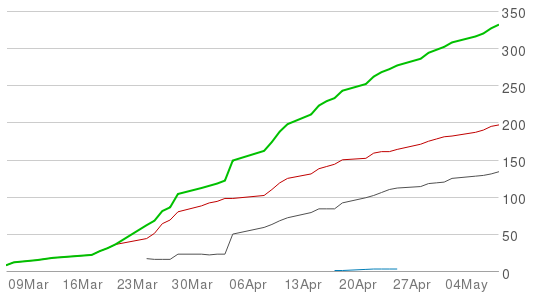
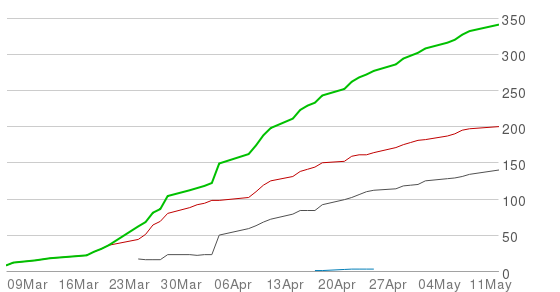
Updates 2014-05-12

diff --git a/index.html b/index.html
@@ -105,8 +105,8 @@
 		</script>
 		
 		<p>The first case of mumps detected in Franklin County was January 7, with the first case at OSU detected February 10.</p>
-		<p>At Ohio State University, the virus has affected 132 students, 26 staff members, three family members, and 37 with strong ties to the university community, with 86.4 percent of affected OSU-affiliated persons living in Columbus. Patients include 120 females and 78 males in the OSU community, from one to 58 years of age. The university-linked cases include residents in Columbus and Athens, Belmont, Cincinnati, Clark, Delaware, Fairfield, Franklin, Hamilton, Licking, Madison, Pickaway and Ross counties.<sup><a href="http://columbus.gov/Templates/Detail.aspx?id=69188">1</a></sup> Cases unrelated to Ohio State have been found in Ashland, Butler, Coshocton, Delaware, Lucas, Medina, Pickaway, Pike and Richland counties.</p>
-		<p>Three to four cases have been reported at Columbus State Community College.<sup><a href="http://www.nbc4i.com/story/25300367/mumps-outbreak-grows-to-253-cases">2</a></sup> Cases have been reported in six<sup><a href="http://www.nbc4i.com/story/25322507/mumps-outbreak-grows-to-269-cases">3</a></sup> Olentangy Local Schools, leading school officials to tell students without the vaccine and with compromised immune systems to stay home. <sup><a href="http://www.dispatch.com/content/stories/local/2014/04/18/olentangy-students-without-mumps-vaccine-must-stay-home-for-25-days.html">4</a></sup> One member of the Ohio House staff has been diagnosed with mumps.<sup><a href="http://dispatchpolitics.dispatch.com/content/blogs/the-daily-briefing/2014/05/05-05-14-house-mumps.html">5</a></sup></p>
+		<p>At Ohio State University, the virus has affected 135 students, 26 staff members, three family members, and 37 with strong ties to the university community, with 86.4 percent of affected OSU-affiliated persons living in Columbus. Patients include 120 females and 78 males in the OSU community, from one to 75 years of age. The university-linked cases include residents in Columbus and Athens, Belmont, Cincinnati, Clark, Delaware, Fairfield, Franklin, Hamilton, Licking, Madison, Pickaway and Ross counties.<sup><a href="http://columbus.gov/Templates/Detail.aspx?id=69188">1</a></sup> Cases unrelated to Ohio State have been found in Ashland, Butler, Coshocton, Delaware, Lucas, Medina, Pickaway, Pike and Richland counties.</p>
+		<p>Three to four cases have been reported at Columbus State Community College.<sup><a href="http://www.nbc4i.com/story/25300367/mumps-outbreak-grows-to-253-cases">2</a></sup> Cases have been reported in six<sup><a href="http://www.nbc4i.com/story/25322507/mumps-outbreak-grows-to-269-cases">3</a></sup> Olentangy Local Schools, leading school officials to tell students without the vaccine and with compromised immune systems to stay home.<sup><a href="http://www.dispatch.com/content/stories/local/2014/04/18/olentangy-students-without-mumps-vaccine-must-stay-home-for-25-days.html">4</a></sup> One member of the Ohio House staff has been diagnosed with mumps.<sup><a href="http://dispatchpolitics.dispatch.com/content/blogs/the-daily-briefing/2014/05/05-05-14-house-mumps.html">5</a></sup> One case each has been diagnosed at J.W. Reason Elementary, Brown Elementary and Hilliard Bradley High School in Hilliard.<sup><a href="http://www.dispatch.com/content/stories/local/2014/05/12/Hilliard-schools-warns-parents-about-mumps-cases.html">6</a></sup></p> 
 		<p>Local patients have had the following complications:</p>
 		<p><ul>
 			<li>Testicular inflammation</li>
